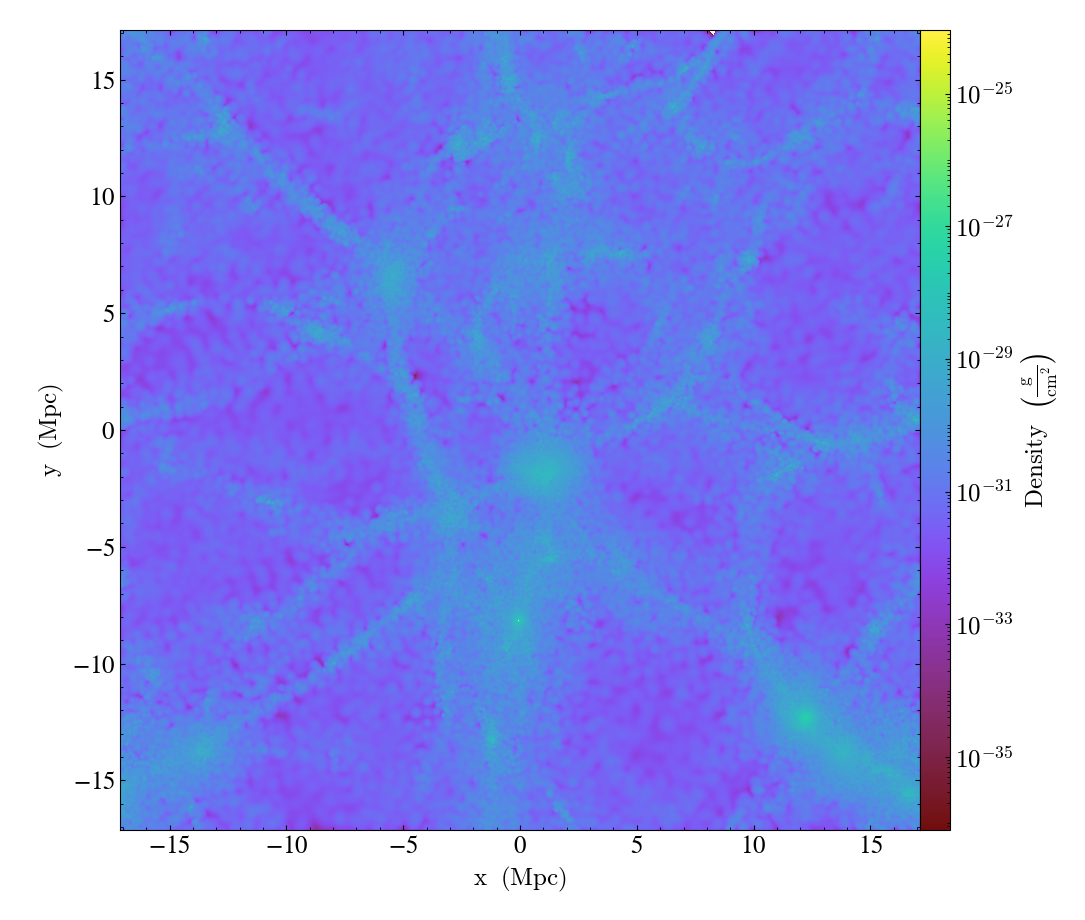
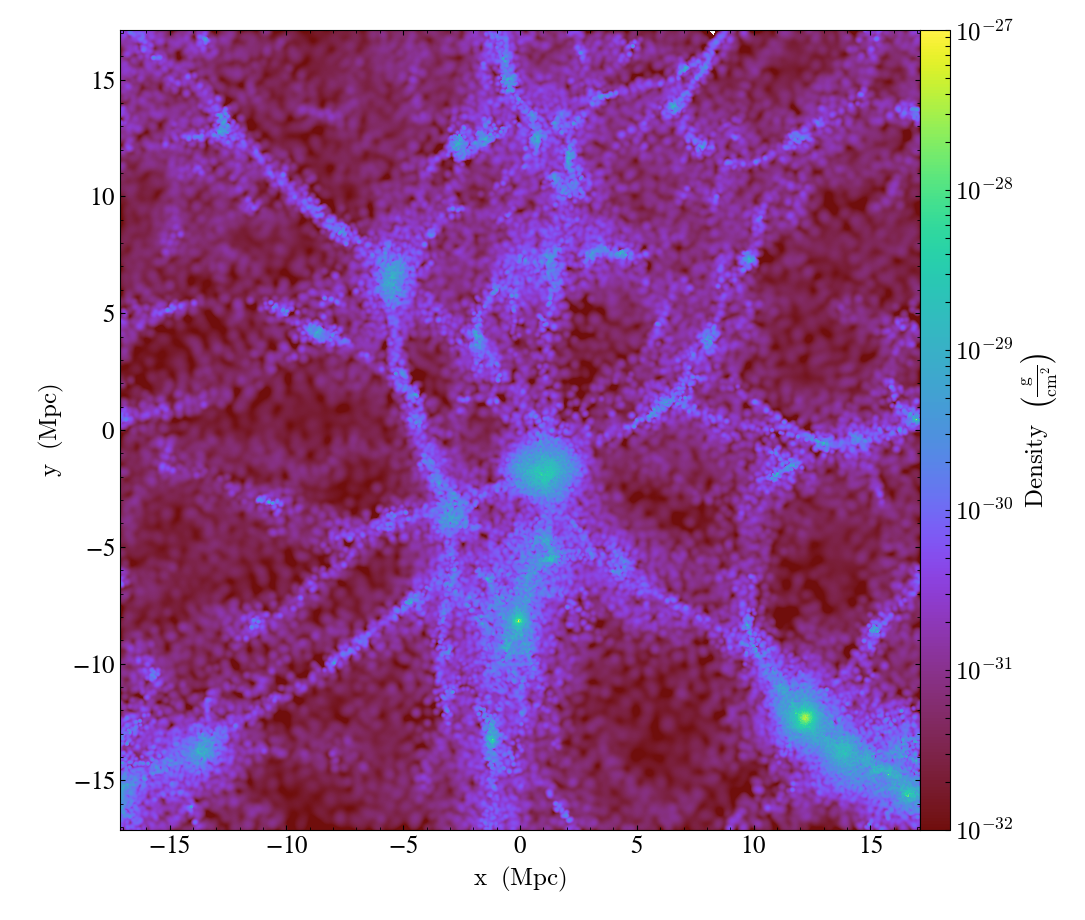
use explicit z limits in the image comparisons

diff --git a/source/YTEPs/YTEP-0031.rst b/source/YTEPs/YTEP-0031.rst
@@ -557,9 +557,17 @@ script::
 
   ds = yt.load('snapshot_033/snap_033.0.hdf5')
 
-  yt.SlicePlot(ds, 2, ('gas', 'density')).save()
+  plot = yt.SlicePlot(ds, 2, ('gas', 'density'))
 
-  yt.ProjectionPlot(ds, 2, ('gas', 'density')).save()
+  plot.set_zlim(('gas', 'density'), 1e-32, 1e-27)
+
+  plot.save()
+
+  plot = yt.ProjectionPlot(ds, 2, ('gas', 'density'))
+
+  plot.set_zlim(('gas', 'density'), 8e-6, 8e-3)
+
+  plot.save()
 
 Running the latest development version of yt at time of writing
 (``25651334863b``) requires 43 seconds to run and produces the following images:
@@ -586,13 +594,14 @@ Projection:
 Note also that the performance improvement here becomes more stark for larger
 datasets as well as for zoom-in simulations which have deeper octrees.
 
-The images produces using the octree are quite "blocky", since the resolution of
+The images produced using the octree are quite "blocky", since the resolution of
 the image in any given location is limited by the octree. This could be
 ameliorated somewhat using ``over_refine_factor`` but that requires steeper
-memory requirements to smooth onto the octree. In general these images are
-"truer" to the actual structure of the data. Rather than generating an image
-from a sampled representation of the real data, it is our opinion that it makes
-more sense to instead sample directly from the particle data.
+memory and runtime cost requirements to smooth onto the octree. In general the
+images produced by the new pixelizers are truer to the actual structure of the
+data. Rather than generating an image from a sampled representation of the real
+data, it is our opinion that it makes more sense to instead sample directly from
+the particle data.
 
 .. [SPLASHPaper] http://adsabs.harvard.edu/doi/10.1071/AS07022
 
